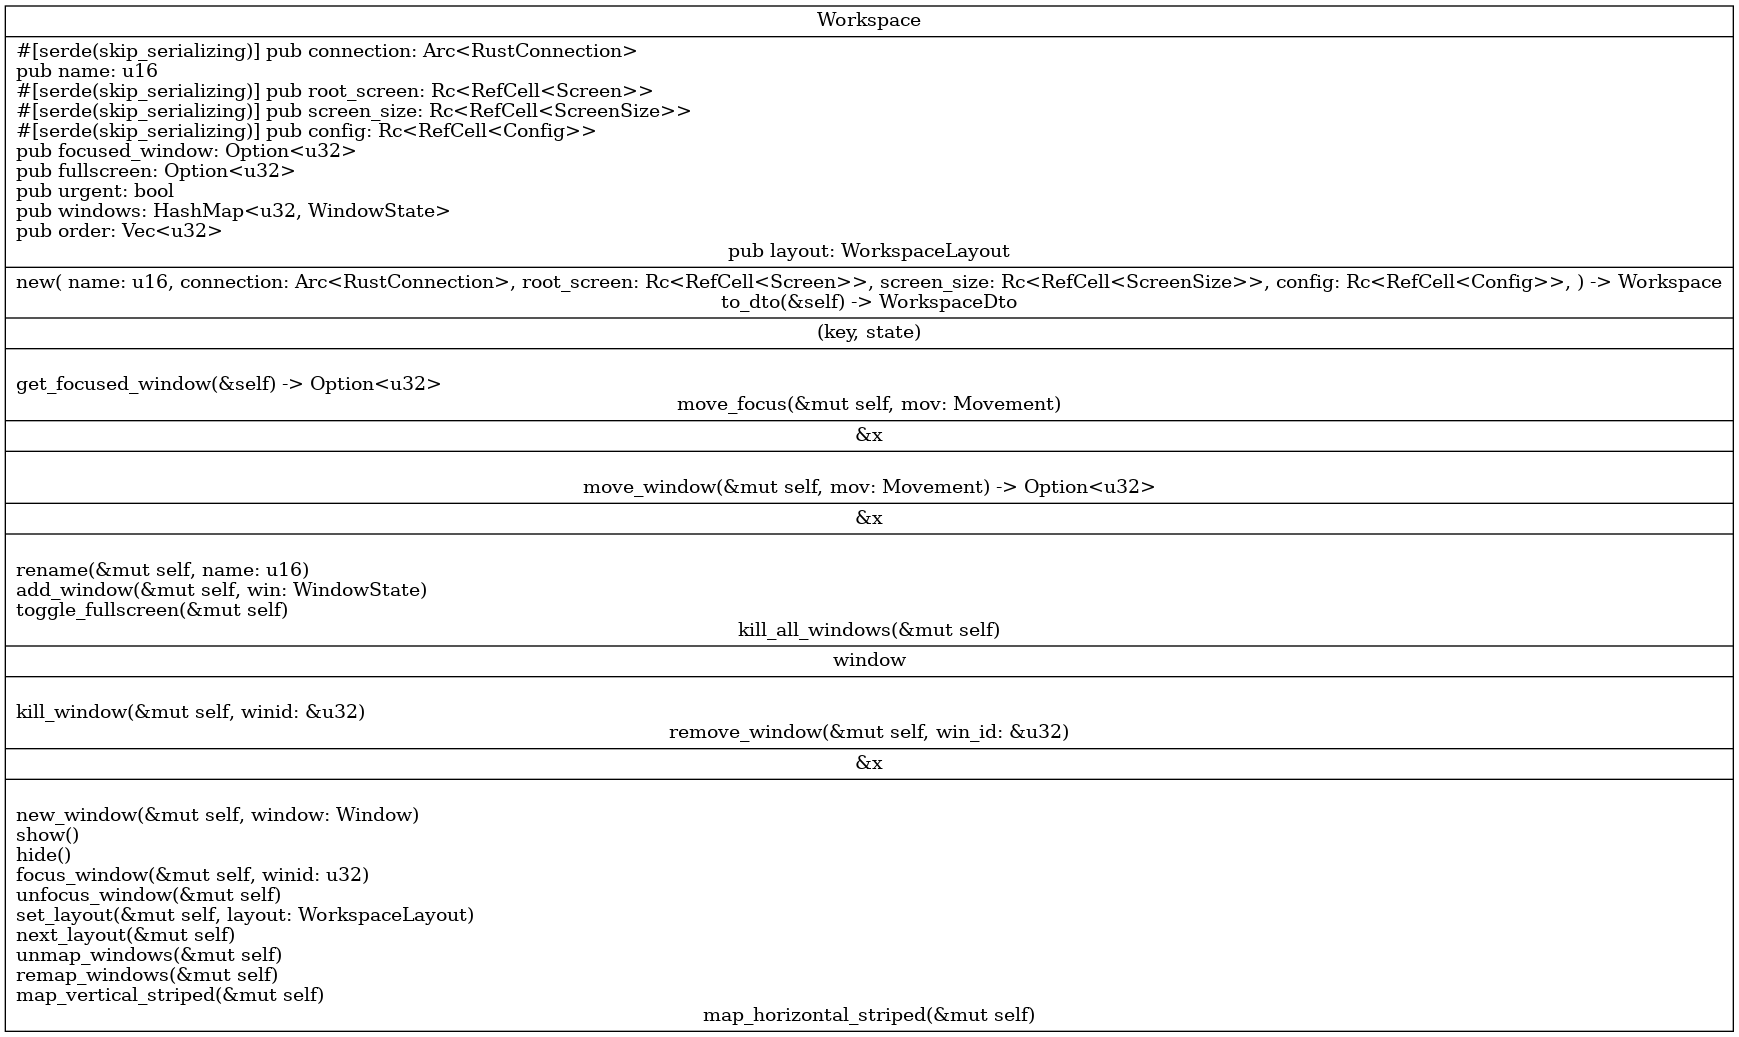
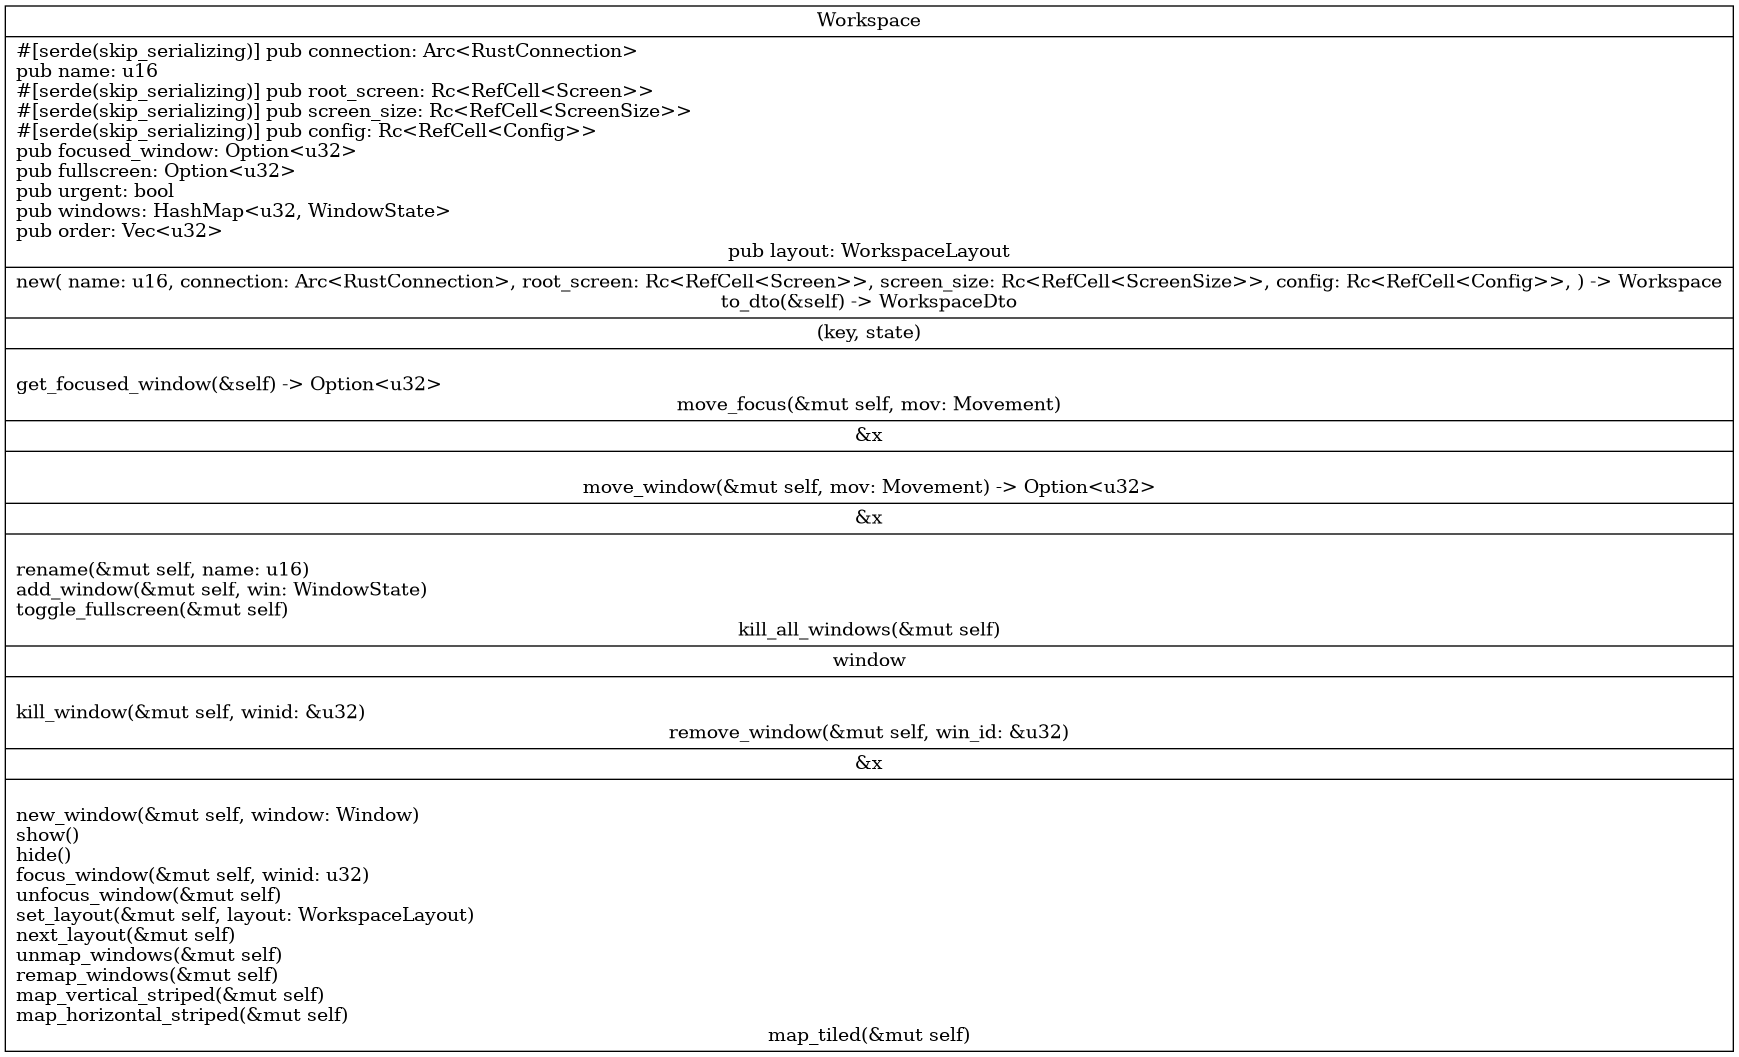
Implement tiled layout

Changed region(s): [[0.0, 0.0309, 0.9937, 0.9875], [0.4037, 0.9566, 0.59, 1.0], [0.4658, 0.0, 0.5279, 0.0309]]

diff --git a/src/workspace/mod.rs b/src/workspace/mod.rs
@@ -75,7 +75,7 @@ impl Workspace {
             focused_window: self.focused_window,
             fullscreen: self.fullscreen,
             urgent: self.urgent,
-            windows: windows,
+            windows,
             order: self.order.clone(),
         }
     }
@@ -279,7 +279,8 @@ impl Workspace {
     pub fn next_layout(&mut self) {
         match self.layout {
             WorkspaceLayout::HorizontalStriped => self.set_layout(WorkspaceLayout::VerticalStriped),
-            WorkspaceLayout::VerticalStriped => self.set_layout(WorkspaceLayout::HorizontalStriped),
+            WorkspaceLayout::VerticalStriped => self.set_layout(WorkspaceLayout::Tiled),
+            WorkspaceLayout::Tiled => self.set_layout(WorkspaceLayout::HorizontalStriped),
         }
         self.remap_windows();
     }
@@ -315,6 +316,7 @@ impl Workspace {
                 //Layout::Tiled => {},
                 WorkspaceLayout::VerticalStriped => self.map_vertical_striped(),
                 WorkspaceLayout::HorizontalStriped => self.map_horizontal_striped(),
+                WorkspaceLayout::Tiled => self.map_tiled(),
             }
         }
     }
@@ -352,6 +354,78 @@ impl Workspace {
                     (screen_size.ws_height as usize / amount) as u32,
                 )
                 .draw();
+        }
+    }
+
+    fn map_tiled(&mut self) {
+        let amount = self.order.len();
+
+        if amount == 0 { return; }
+        if amount == 2 {
+            self.map_vertical_striped();
+            return;
+        }
+
+        let mut col = 0;
+        let mut index = 0;
+        let screen_size = self.screen_size.borrow();
+        let even_amount = amount % 2 == 0;
+        let window_height = screen_size.ws_height / 2;
+        let window_width = match even_amount {
+            true => screen_size.ws_width / (amount / 2) as u32,
+            false => screen_size.ws_width / ((amount + 1) / 2) as u32,
+        };
+
+        if !even_amount {
+            let window = self.windows.get_mut(&self.order[index]).unwrap();
+            window
+                .set_bounds(
+                    screen_size.ws_pos_x,
+                    screen_size.ws_pos_y,
+                    window_width,
+                    screen_size.ws_height,
+                )
+                .draw();
+            index += 1;
+            col += 1;
+        }
+
+        let mut x: u32;
+        let mut y: u32;
+        while index < amount {
+            let window = self.windows.get_mut(&self.order[index]).unwrap();
+
+            x = screen_size.ws_pos_x as u32 + (window_width * col);
+            y = if even_amount {
+                    if index % 2 == 0 {
+                        screen_size.ws_pos_y as u32
+                    } else {
+                        screen_size.ws_pos_y  as u32 + window_height
+                    }
+                } else {
+                    if index % 2 == 0 {
+                        screen_size.ws_pos_y  as u32 + window_height
+                    } else {
+                        screen_size.ws_pos_y as u32
+                    }
+                };
+
+            window
+                .set_bounds(
+                    x as i32,
+                    y as i32,
+                    window_width,
+                    window_height
+                )
+                .draw();
+
+            if even_amount && index % 2 == 1 {
+                col += 1;
+            } else if !even_amount && index % 2 == 0 {
+                col += 1;
+            }
+
+            index += 1;
         }
     }
 }

diff --git a/src/workspace/workspace_layout.rs b/src/workspace/workspace_layout.rs
@@ -5,7 +5,7 @@ pub enum WorkspaceLayout {
     //Tiled, //blocked by https://github.com/DHBW-FN/OxideWM/issues/70
     VerticalStriped, //  |
     HorizontalStriped, // ---
-                     //Different layout modes and better names wanted C:
+    Tiled,
 }
 
 impl TryFrom<&str> for WorkspaceLayout {
@@ -14,6 +14,7 @@ impl TryFrom<&str> for WorkspaceLayout {
         match value.to_lowercase().as_str() {
             "vertical" => Ok(WorkspaceLayout::VerticalStriped),
             "horizontal" => Ok(WorkspaceLayout::HorizontalStriped),
+            "tiled" => Ok(WorkspaceLayout::Tiled),
             _ => Err(format!("{} is not a valid layout", value)),
         }
     }

diff --git a/build.rs b/build.rs
@@ -382,7 +382,7 @@ fn generate_diagrams(root: DiagramRoot) {
 }
 
 fn main() {
-    format_code();
+//    format_code();
 
     let diagram_roots: Vec<DiagramRoot> = vec![
         DiagramRoot {

diff --git a/src/config/mod.rs b/src/config/mod.rs
@@ -187,5 +187,5 @@ fn default_gap() -> u32 {
 }
 
 fn default_default_layout() -> WorkspaceLayout {
-    WorkspaceLayout::VerticalStriped
+    WorkspaceLayout::Tiled
 }
